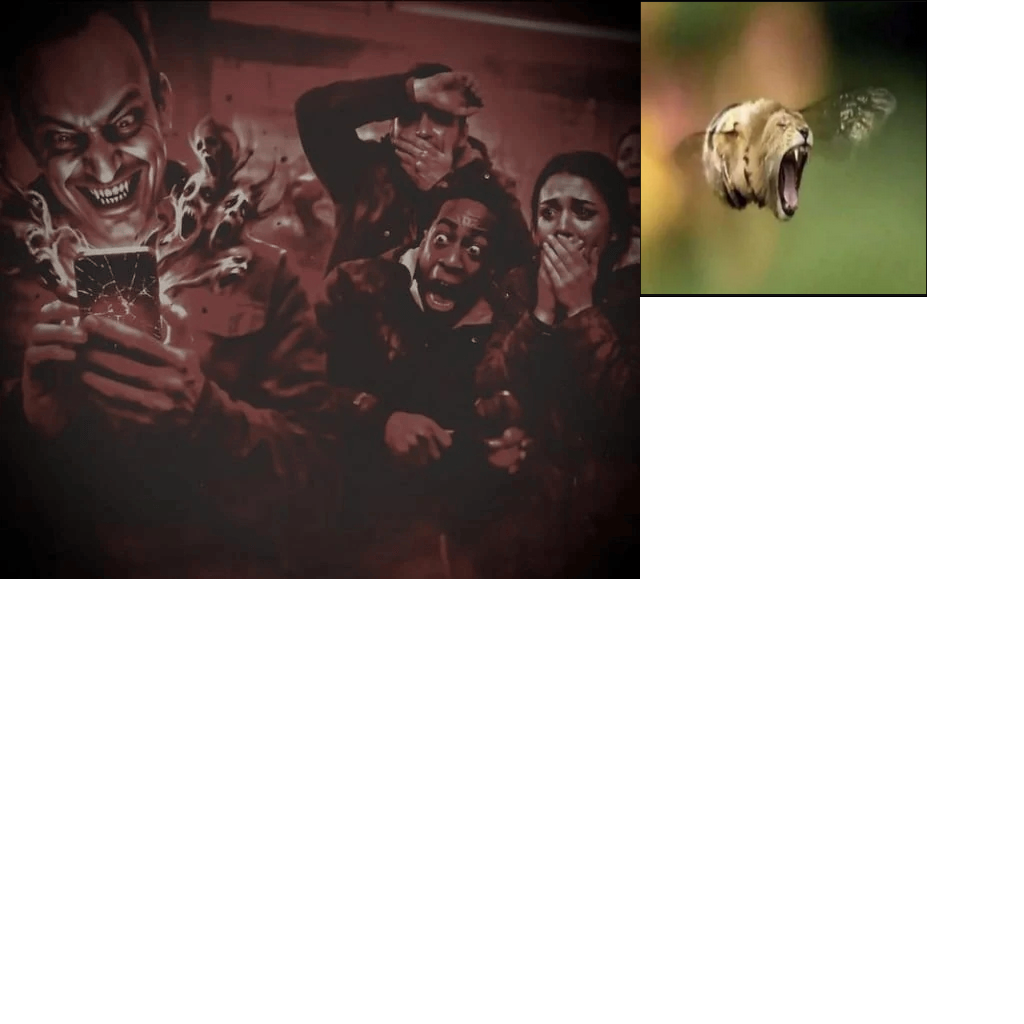
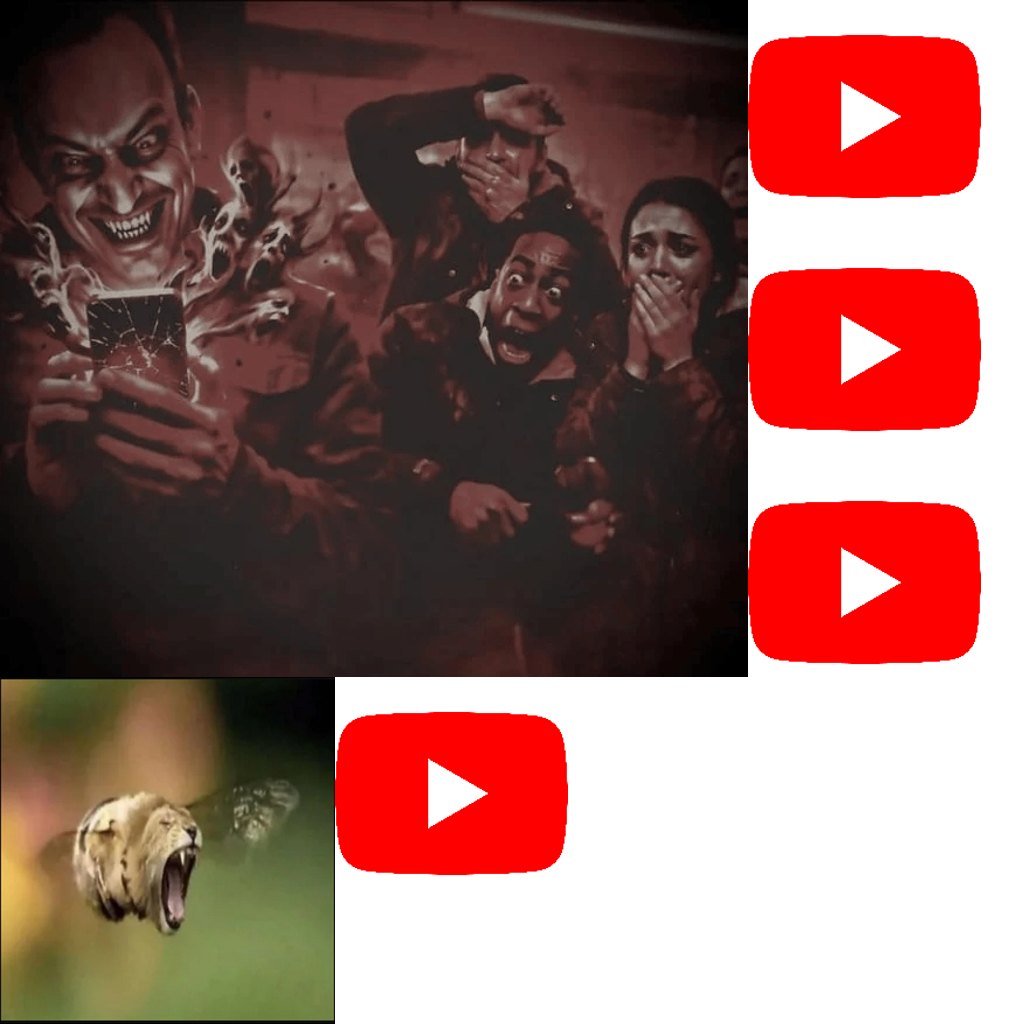
Scaling and transparency

diff --git a/src/stb.c b/src/stb.c
@@ -4,3 +4,5 @@
 #include "stb_image.h"
 #define STB_IMAGE_WRITE_IMPLEMENTATION
 #include "stb_image_write.h"
+#define STB_IMAGE_RESIZE_IMPLEMENTATION
+#include "stb_image_resize2.h"
